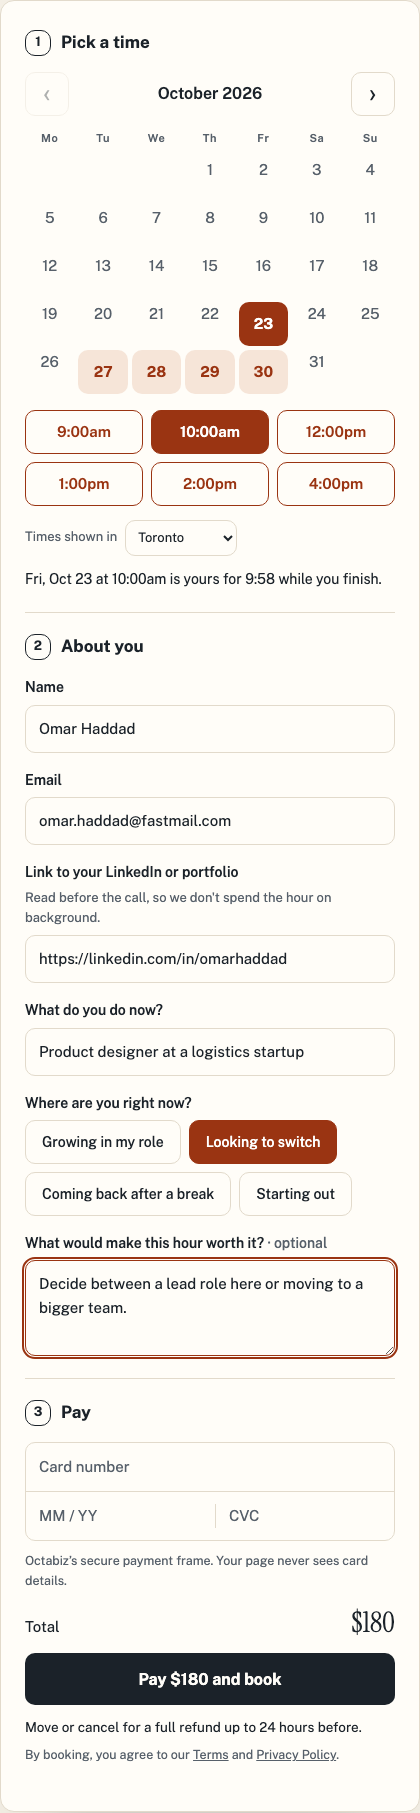
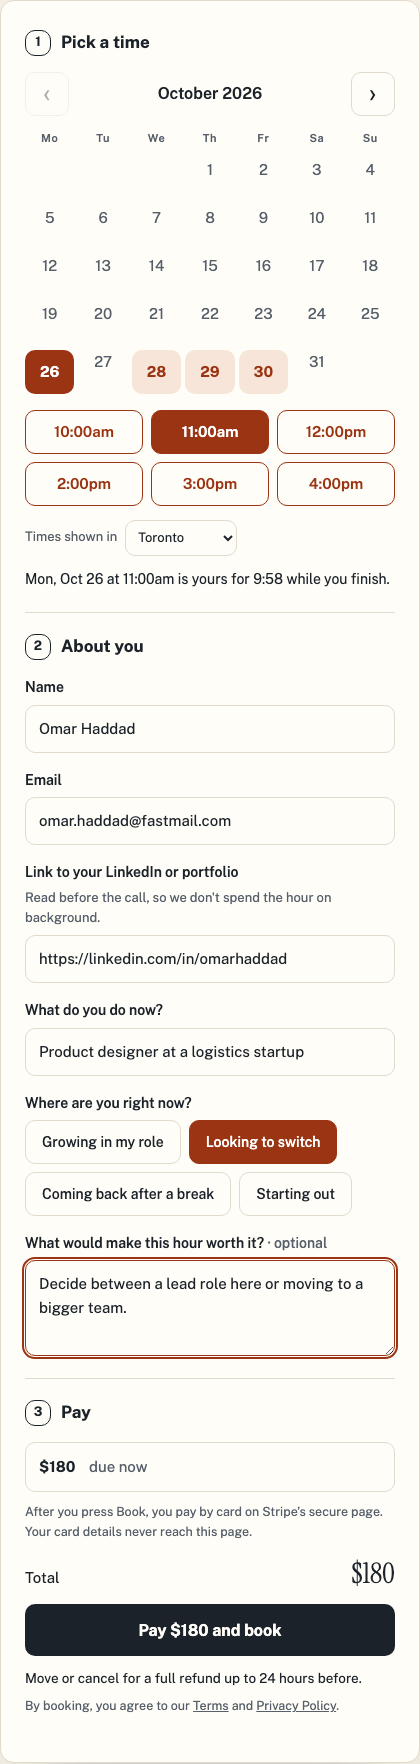
Payment on theme pages: data-bk="payment" shows the amount; book() takes pay-now customers to Stripe's checkout

diff --git a/tools/booking-host/octabiz-booking-mock.js b/tools/booking-host/octabiz-booking-mock.js
@@ -298,9 +298,9 @@
     document.querySelectorAll('[data-bk="payment"]').forEach(function (n) {
       if (!(service.price && service.price.upfront)) { n.hidden = true; return; }
       n.classList.add('bkf-pay');
-      n.innerHTML = '<div class="bkf-pay-box" aria-label="Card details (sample)">' +
-        '<div class="bkf-pay-row">Card number</div><div class="bkf-pay-row bkf-pay-split"><span>MM / YY</span><span>CVC</span></div></div>' +
-        '<p class="bkf-pay-note">Octabiz’s secure payment frame. Your page never sees card details.</p>';
+      // As on Octabiz: the amount, and payment on Stripe's page after book(). No card fields on your page.
+      n.innerHTML = '<div class="bkf-pay-box"><div class="bkf-pay-row"><b style="color:var(--bk-ink)">' + esc(service.priceText) + '</b>&nbsp;due now</div></div>' +
+        '<p class="bkf-pay-note">After you press Book, you pay by card on Stripe’s secure page. Your card details never reach this page.</p>';
     });
     // The built-in Your details page: Book it checks the fields the same way the server does.
     var bookIt = document.getElementById('bkp-book');

diff --git a/docs/booking-themes.md b/docs/booking-themes.md
@@ -14,7 +14,7 @@ There are two levels, and three extras you can add to either:
 
 > **Where each extra stands.**
 > * **Custom fields** are live. A business can turn your questions off, or make them optional, per service.
-> * **`book` and your own `service` page** are accepted on upload. For now they show only on dev.octabiz.ai, while their security review finishes. Until the payment frame ships, a service paid when booking, or a group session, uses the built-in page.
+> * **`book` and your own `service` page** are accepted on upload. For now they show only on dev.octabiz.ai, while their security review finishes. A service paid when booking goes to Stripe's checkout from your page. A group session still uses the built-in page.
 > * **`serviceKinds`** are accepted when `capacity.mode` is `units` (rentals), and show on dev.octabiz.ai for now. A kind paid when booking waits for the payment frame. `one` and `seats` kinds come later.
 > `preview.mjs` and `validate.mjs` support all of it today.
 
@@ -163,7 +163,7 @@ Octabiz fills these elements for you, in your tokens:
 | --- | --- |
 | `<div data-bk="description"></div>` | The business's formatted description: paragraphs, bold, lists and links, cleaned by Octabiz. Template values are always escaped, so this is the only way to show formatting |
 | `<div data-bk="fields"></div>` | The customer's details: name, email, phone if the business asks for it, the business's own questions and your theme's [custom fields](#custom-fields-preview) |
-| `<div data-bk="payment"></div>` | Octabiz's payment frame (card, Apple Pay, Google Pay, PayPal) when the service is paid upfront. Empty otherwise. Your code never sees card details |
+| `<div data-bk="payment"></div>` | When the service is paid when booking: the amount due, and a line saying payment happens on Stripe's secure page. Empty otherwise |
 
 Required on `book`: the time zone picker, `{{ service.cutoffText }}`, `data-bk="payment"`, `data-bk="terms"` and `data-bk="powered-by"`. If you leave out `data-bk="fields"`, draw your own inputs from `getFields()` and send the answers yourself.
 
@@ -180,7 +180,7 @@ Everything from Level 2 still works. These are new:
 | `quote(serviceId, selection, answers?)` | `{ lines: [{ label, amountText }], totalText, upfront }`: the price for what the customer picked, in the business's currency. Pass `answers` when a [kind](#new-service-kinds-preview) prices add-ons from fields |
 | `getSlots(serviceId, date, tz, selection?)` | As before. With a `selection` (`{ minutes, quantity }`) it only returns starts where that fits, and each slot has `remaining` |
 | `hold(serviceId, start, selection?)` | As before, holding the length and quantity too |
-| `book({ holdId, guest, answers })` | Books it. If the service is paid upfront it first confirms the payment frame. On success Octabiz opens **You're booked** itself |
+| `book({ holdId, guest, answers })` | Books it, and Octabiz opens **You're booked** itself. If the service is paid when booking, Octabiz takes the customer to Stripe's secure checkout instead, and back to **You're booked** once they've paid. Your page never sees card details |
 
 `book()` errors, as `{ code, message }`: `SLOT_TAKEN`, `HOLD_EXPIRED`, `PAYMENT_FAILED`, and `FIELD_INVALID`, which also has `fields: { fieldId: sentence }`. As before, show `message` as it is.
 

diff --git a/examples/booking-template-northline-one-page/README.md b/examples/booking-template-northline-one-page/README.md
@@ -2,7 +2,7 @@
 
 A coaching call sold and booked on one page. The left side is the pitch: cover image, price, the business's own description and what the customer leaves with. On the right, one card has the whole booking in order: pick a time, answer four questions, pay. Nothing opens a new page until the customer is booked.
 
-> Uses the `book` page and custom fields, which the developer portal accepts. Businesses see `book` pages on dev.octabiz.ai for now, while their security review finishes. A service paid when booking keeps the built-in page until the payment frame ships. See [docs/booking-themes.md](../../docs/booking-themes.md#one-page-booking-the-book-page-preview).
+> Uses the `book` page and custom fields, which the developer portal accepts. Businesses see `book` pages on dev.octabiz.ai for now, while their security review finishes. Because the call is paid when booking, **Pay** takes the customer to Stripe's secure checkout. See [docs/booking-themes.md](../../docs/booking-themes.md#one-page-booking-the-book-page-preview).
 
 <img alt="Northline at 1440px: the cover, title, price and description on the left, the calendar and times on the right" src="screenshots/page.png">
 
@@ -35,7 +35,7 @@ preview/cover.svg   the sample business's cover image (not uploaded: covers belo
 - **Octabiz fills three parts in your tokens:**
   - `data-bk="description"`: the business's formatted text. Template values are always escaped, so this is how bold text and lists get through.
   - `data-bk="fields"`: name, email and the four questions from `fields` in `theme.json`.
-  - `data-bk="payment"`: the card frame. Your page never sees card details.
+  - `data-bk="payment"`: the amount due. **Pay** then sends the customer to Stripe's checkout, so your page never sees card details.
 - **Hold on pick.** Clicking a time calls `hold()` straight away, so the time can't go while the customer types. A countdown shows how long is left, and when it runs out the page asks for the time again.
 - **One call to finish.** **Pay** calls `readFields()`. That returns `null` and marks the form when something is missing. Otherwise it calls `book()`, which takes the payment and then opens **You're booked**.
 - **A cover that may not exist.** Templates can't leave out an `<img>`, so `book.js` removes it when the business has no cover.
